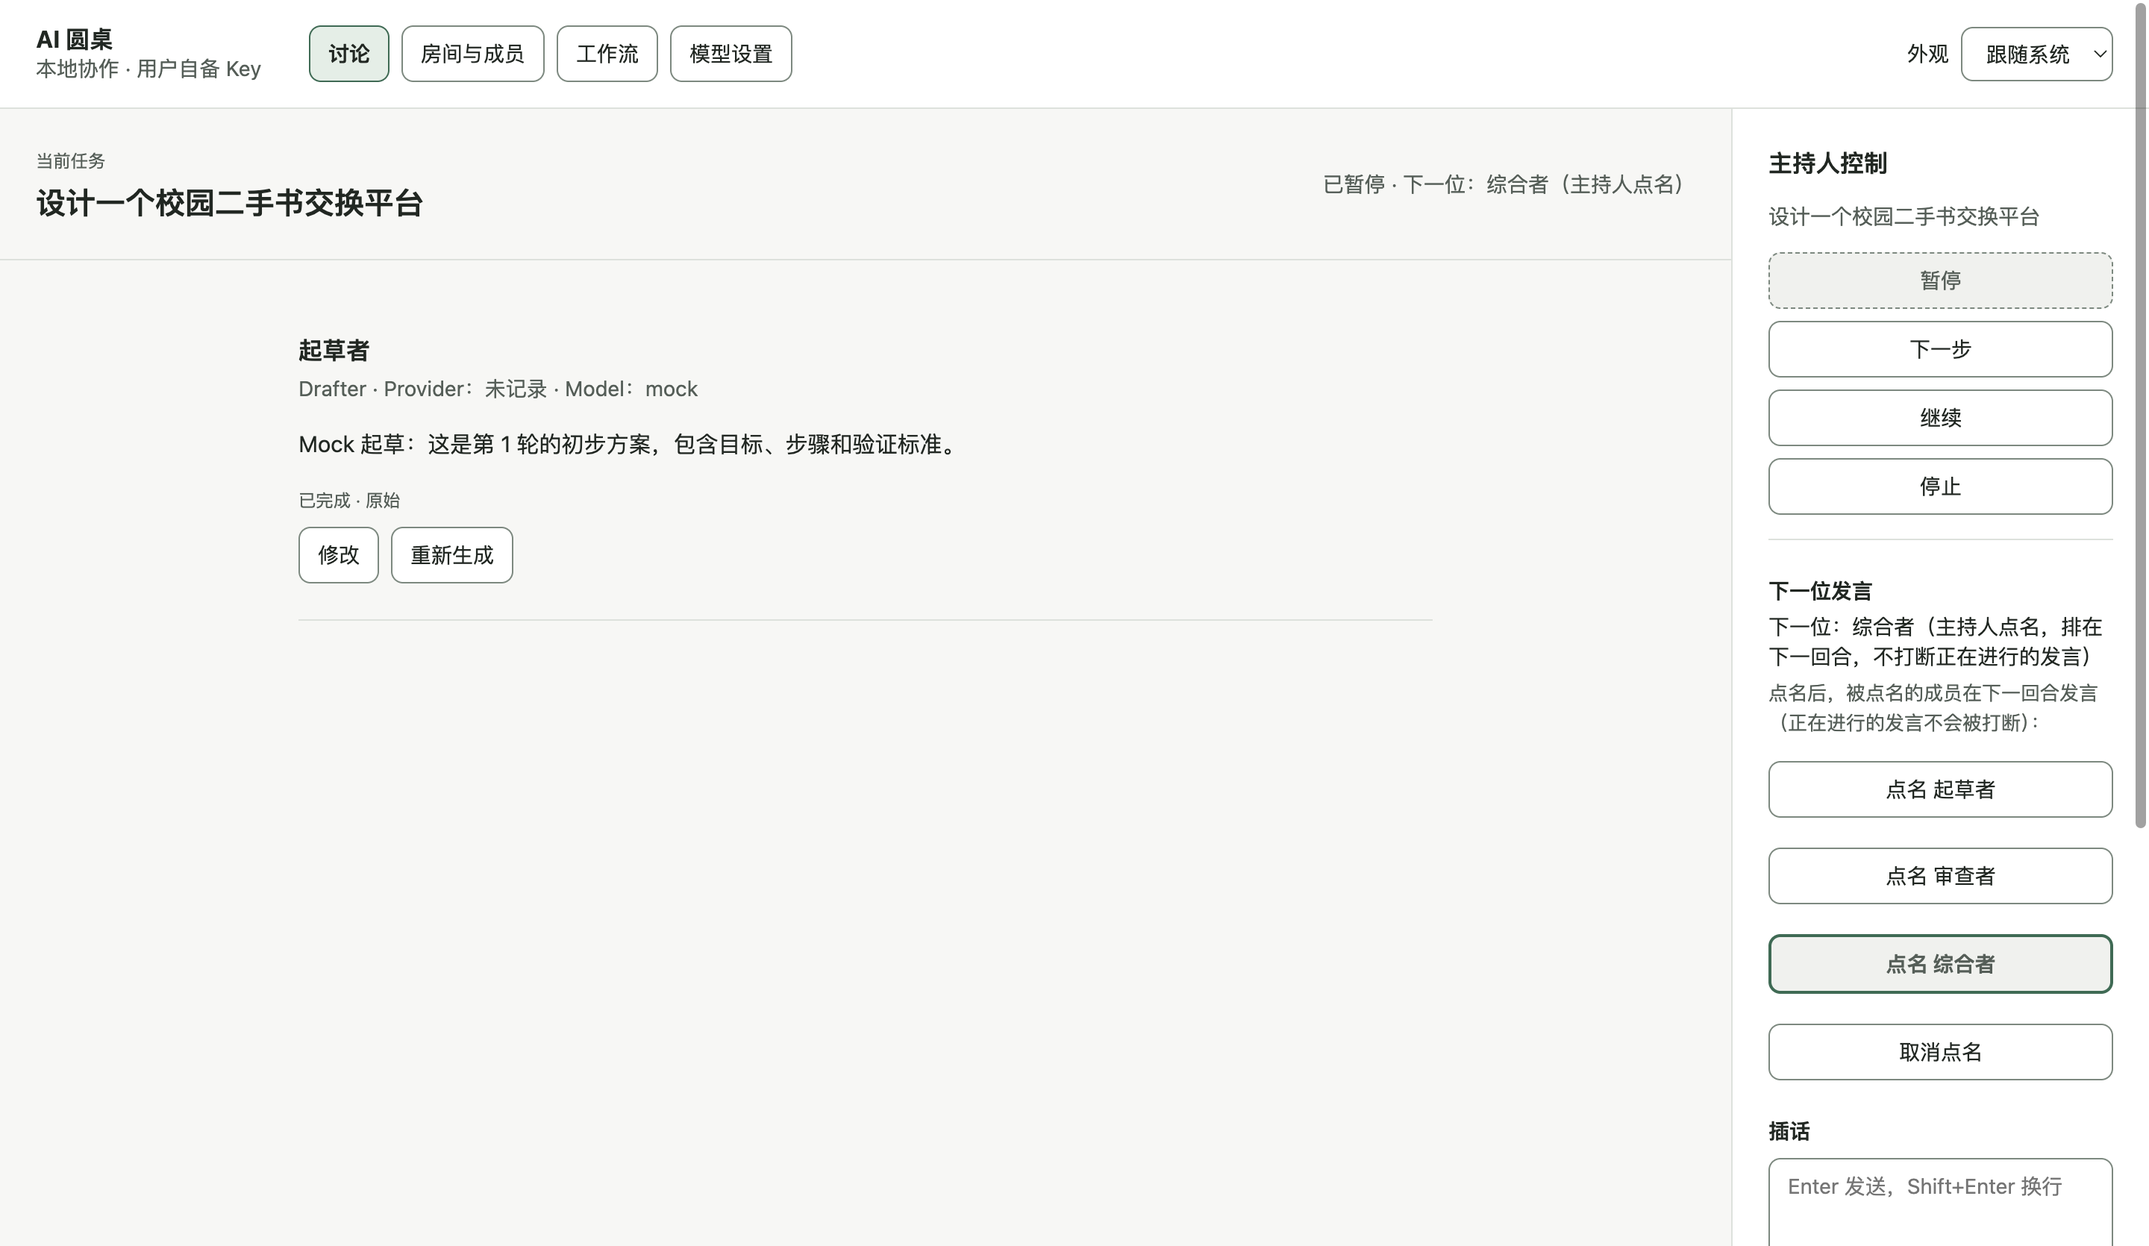
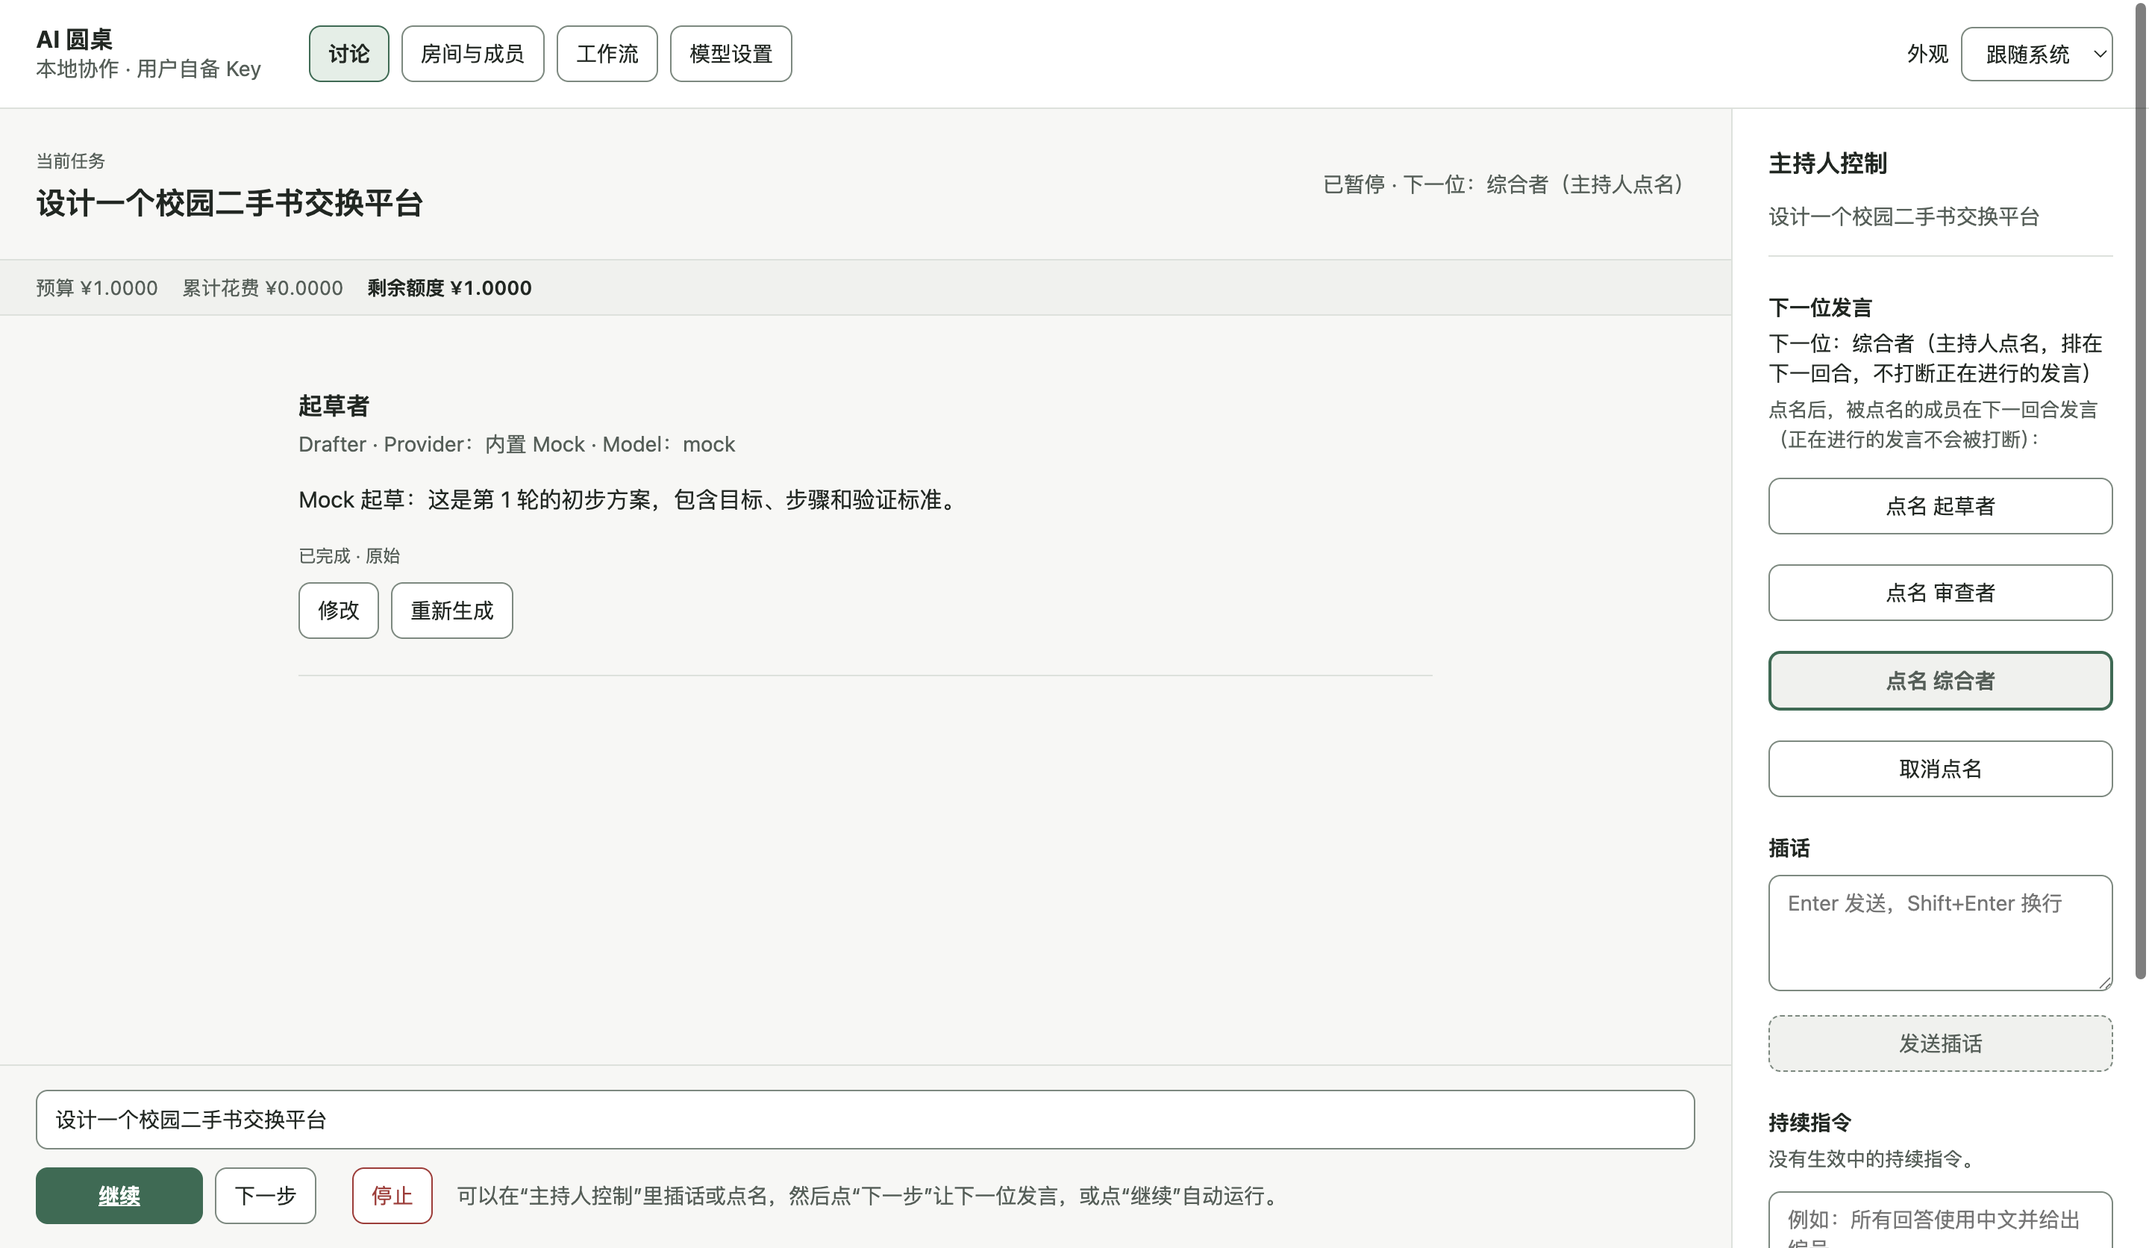
docs: record R12/R13A integration, real-model results and Claude-grade product standard
STATUS current state moves R12 and R13A (with the pre-merge quality fixes) to
merged/verified and corrects R10A/R10B/R11 rows to merged. The R12 acceptance
record and its screenshots are regenerated on the merge result: after D102 the
output-limit path shows truncation and continuation instead of failure.
CLAUDE.md gains the product standard the user set; the handoff notes the
current repository location.

diff --git a/docs/STATUS.md b/docs/STATUS.md
@@ -1,11 +1,13 @@
 # R00–R18 状态与授权看板
 
-## 当前状态（2026-10-21，Claude Code 接手后）
+## 当前状态（2026-10-23）
 
-- **R10A Anthropic / R10B Gemini / R11 声明式工作流：review，待用户批准合 main。** 分支 `codex/integrate-r10a-r10b-r11`，生产接线提交 `8a7f293`。验证：Electron ABI139 下 109 文件 / 1732 测试、typecheck、build、隔离生产探针（首次 53 断言 / 26 次 fixture 请求，重启 17 断言 / 0 请求，liveApi=false）。真实 Claude/Gemini API、价格策略、桌面 E2E 未验证。
-- **环境根治**（`bf3a6d9`）：测试在 Electron 自带 Node 中运行，better-sqlite3 只保留 Electron ABI；`ensure-native` 按需重建。已查明 Codex 时期 Team ID 报错的根因是 `/opt/homebrew/bin/node` 指向 ChatGPT.app 内置的带签名 Node，现已改为 Homebrew `node@24`，`pnpm run build` 无需任何绕法即可通过。
-- **缺陷修复**（`3378436`）：数据库父目录含符号链接时，迁移备份必定失败（Codex 时期靠改 TMPDIR 绕过），已修复并补回归测试。
-- 已知后续：开启回环代理时，原生 Claude/Gemini 会被拒绝（代理目标检查写死了 `/chat/completions`）；每次运行工作流后都需要重新预览和应用。
+- **R12 主持人与消息版本、R13A 真实模型（DeepSeek）与运行预算、合并前质量修复：merged / verified。** 集成分支 `codex/integrate-r12-r13a`（R12 `codex/r12-host-message-versions` → R13A `codex/r13a-real-model-enable` → 质量修复 `codex/r13a-premerge-quality`，再合入 main 上的文档提交），以 ff-only 方式合入 main。合并结果上总控复跑：typecheck、126 文件 / 1903 测试、build；隔离生产探针 R01（默认、`--joint-ui`、`--r03-recovery`）、R07/R08、R09、R12、R13A 的首次运行和 `--restart`（重启后 0 次请求）、R10/R11；实操探针 premerge（首次 56 项 + 重启 11 项）、R13A、R12（25 项，截图已按最终代码重新生成）。全部通过，liveApi=false。
+- **真实模型实测（用户本人的 DeepSeek Key，`deepseek-flash`，经本机代理）**：请求次数、token 与 DeepSeek 控制台逐项一致；花费按高峰价记账，空闲时段实际扣费约为显示值的一半（D090 的保守取向，按时段结算列入 R13B）。主持人点名、插话、持续指令、修改与重新生成、版本切换在真实模型上生效；修复上下文格式（D095）后，审查者给出带出处的具体意见、不再照抄，综合者能整合并做取舍，主持人修改后的条件会被采用；写到输出上限时保留并标注截断，运行继续（D102，默认上限 4096，D103）。
+- **数据库**：migration 6（主持人操作与消息版本）、7（运行预算与费用账本）、8（请求结束原因）。启动时清除误填进模型 ID 栏、看起来像 API Key 的值，不留明文（D096/D100）。
+- **R10A/R10B/R11**：2026-10-21 合入 main（`66017c0`）。原生 Claude/Gemini 仍没有获审的价格策略，真实生成会被拒绝；代理模式下的目标核对已按 Provider 类型修正（R13A）。
+- **环境**：测试在 Electron 自带的 Node 中运行；宿主 Node 为 Homebrew `node@24`。仓库位于 `~/Claude code/AI roundtable`（已移出 iCloud）。
+- **下一步路线**：R13B（运行中追加预算、核销未知费用、按时段结算价格、对话摘要、用量统计）→ R14 结构化产物（可以和 R13B 并行）→ R15 代码导出 / R16 按 Claude 风格重做界面（汇总已记录的体验问题：设置页文案过于技术化、工作流运行后要重新应用、右侧面板过长等）→ R17 E2E 与发布。产品标准：按 Claude 配套产品的标准与审美把关，验收分三层（自动化、真实界面实操、真实模型）。
 
 以下为 Codex 时期的历史记录，保留作证据。
 
@@ -60,12 +62,12 @@ main 本轮新跑 Electron86文件1292/1292、受影响12文件279/279、Node/El
 | R07 | 房间、成员、历史 | R04/R05/R06及SHARED-R07-R08-01已合main且verified | 原模块交付；总控联合接线 | verified | 最终合并及补充探针修复已授权；全部必要验收完成 | 已合main；集成及原分支/WT全部保留 | 原d991178；引入f718f829；接线64ac8ce5038813cc60374573dc8871da30d1eeb0 ；ff入站d3205b2c3fba2061437150e87a87508d44fbb660 | [主线及补充记录](verification/2026-10-17-r07-r08-main.md)：原846/292/111/393、strict/build及UI/重启/退出证据按同业务版本复用；本次18/18真桥断言、生产探针自然exit0及退出SQLite审计通过 |
 | R08 | Key 与 Provider 设置 | R04/R05/R06及SHARED-R07-R08-01已合main且verified | 原模块交付；总控联合接线 | verified | 最终合并及补充探针修复已授权；全部必要验收完成 | 已合main；集成及原分支/WT全部保留 | 原d2aed6c；引入5f01e978；接线64ac8ce5038813cc60374573dc8871da30d1eeb0 ；ff入站d3205b2c3fba2061437150e87a87508d44fbb660 | [主线及补充记录](verification/2026-10-17-r07-r08-main.md)：原846/292/111/393、strict/build及UI/重启/退出证据按同业务版本复用；本次18/18真桥断言、生产探针自然exit0及退出SQLite审计通过 |
 | R09 | OpenAI 与兼容端点 | R07/R08已合main verified；Mock联合验收 | 原模块交付；总控独占联合接线 | verified（fixture） | 用户批准最终合main及主线独立验收；真实付费测试未授权 | 已合main；codex/integrate-r09与原分支/WT保留 | 原2d97af571debf106aadad708a2c0418f299c6eef；唯一引入f5baaf07e1603a7c356fb0c9cedeb131977307ba；接线da512e7a64a6ec4a596b0f7fda820b3d62b04e42；ff入站f3a8fee38f5b7d75b5144c2997d72373fda6ddd6 | [本轮main报告](verification/2026-10-17-r09-main.md)/[台账](verification/2026-10-17-r09-main-commands.md)：Node/Electron各1073、R09专项227、strict/build、双ABI/SQLite、真实生产fixture12请求/重启HTTP0及退出审计；旧探针白名单一行修复，原失败保留 |
-| R10A | Anthropic | R09 fixture已合main verified | 总控（Claude Code） | review | 用户授权继续；合main待批准；真实调用未授权 | codex/r10a-anthropic-provider → codex/integrate-r10a-r10b-r11 | 原7d14b11；接线8a7f293 | 见顶部“当前状态”：1732测试、build、生产探针fixture通过 |
-| R10B | Gemini | R09 fixture已合main verified | 总控（Claude Code） | review | 用户授权继续；合main待批准；真实调用未授权 | codex/r10b-gemini-provider → codex/integrate-r10a-r10b-r11 | 原17b7b62；接线8a7f293 | 见顶部“当前状态”：1732测试、build、生产探针fixture通过 |
-| R11 | 声明式工作流 | R07/R04–R06 | 总控（Claude Code） | review | 用户授权继续；合main待批准；真实调用未授权 | codex/r11-declarative-workflows → codex/integrate-r10a-r10b-r11 | 原9341a33；接线8a7f293 | 四种模板经生产入口fixture完整运行与重启验证 |
-| R12 | 主持人与消息版本 | R11 | 未分派 | blocked | 未授权启动 | 未创建 | 无 | 未运行 |
-| R13 | 摘要、usage、费用预算 | R05/R09/R11 | 未分派 | blocked | 未授权启动 | 未创建 | 无 | 未运行 |
-| R14 | 结构化产物 | R11 | 未分派 | blocked | 未授权启动 | 未创建 | 无 | 未运行 |
+| R10A | Anthropic | R09 fixture已合main verified | 总控（Claude Code） | merged / verified（fixture） | 用户批准合main；真实调用需获审价格策略 | codex/integrate-r10a-r10b-r11 | 接线8a7f293；合main 66017c0 | 1732测试、build、生产探针fixture通过 |
+| R10B | Gemini | R09 fixture已合main verified | 总控（Claude Code） | merged / verified（fixture） | 用户批准合main；真实调用需获审价格策略 | codex/integrate-r10a-r10b-r11 | 接线8a7f293；合main 66017c0 | 1732测试、build、生产探针fixture通过 |
+| R11 | 声明式工作流 | R07/R04–R06 | 总控（Claude Code） | merged / verified（fixture） | 用户批准合main | codex/integrate-r10a-r10b-r11 | 接线8a7f293；合main 66017c0 | 四种模板经生产入口fixture完整运行与重启验证；真实模型工作流待测 |
+| R12 | 主持人与消息版本 | R11 | R12子会话；总控集成 | merged / verified | 用户批准合main | codex/r12-host-message-versions → codex/integrate-r12-r13a | 15e2e30；合并见顶部 | 自动化、实操、DeepSeek真实模型三层通过 |
+| R13 | 摘要、usage、费用预算 | R05/R09/R11 | R13A子会话；总控集成 | R13A merged / verified；R13B not_started | R13A获批；R13B待派发 | codex/r13a-real-model-enable、codex/r13a-premerge-quality → codex/integrate-r12-r13a | b3e3324、0ccb49c | DeepSeek预算与账本经真实账单核对；R13B见顶部路线 |
+| R14 | 结构化产物 | R11 | 未分派 | ready | 待派发 | 未创建 | 无 | 未运行 |
 | R15 | 安全代码导出 | R14 | 未分派 | blocked | 未授权启动 | 未创建 | 无 | 未运行 |
 | R16 | 聊天 UI 与可用性 | R06；主要交互稳定 | 未分派 | blocked | 未授权启动 | 未创建 | 无 | 未运行 |
 | R17 | Electron E2E 与发布 | 骨架 R02；最终 R07–R16，含 R10A/R10B | 未分派 | blocked | 未授权启动 | 未创建 | 无 | 未运行 |

diff --git a/docs/verification/2026-10-22-r12-acceptance.md b/docs/verification/2026-10-22-r12-acceptance.md
@@ -7,6 +7,8 @@
 复跑命令：`pnpm run build`，然后 `./node_modules/.bin/electron tests/probes/r12-acceptance.cjs`（截图会覆盖写入本目录的 `r12-screens/`）。
 本次结果：PASS，22 项检查，14 张截图；网络尝试 0 次，控制台错误 0 条。
 
+**2026-10-23 总控在合并结果（`codex/integrate-r12-r13a`）上复跑**：PASS，25 项检查，14 张截图，网络尝试 0 次、控制台错误 0 条。本目录截图已全部替换为这次复跑生成的版本。D102 之后，输出上限不再导致回合失败，所以截图 11、12 由原来的"失败 / 重试仍失败"改为"截断 / 续写"；检查项也相应更新。
+
 ## 截图
 
 | 截图 | 展示内容 |
@@ -21,8 +23,8 @@
 | [08-edited-affected.png](r12-screens/08-edited-affected.png) | 修改第一条已完成消息：显示新内容、"主持人修改 · 当前有效"和"版本 2/2"；后面两条 Agent 回复出现"受影响"说明（它们基于旧版本生成）。 |
 | [09-regenerated.png](r12-screens/09-regenerated.png) | 对"综合者"的回复点"重新生成"：生成新的版本 2/2（重新生成），依据修订后的开场；第一条修改后的版本仍保留"主持人修改"标记。 |
 | [10-old-version.png](r12-screens/10-old-version.png) | 点"‹"查看"综合者"的旧版本：标为"原始 · 未生效的历史版本"，原文完整保留，并提供"设为当前版本"。 |
-| [11-failed.png](r12-screens/11-failed.png) | 单次输出上限设为 3 后开始：首个回合因输出不完整失败，页头"运行失败"，消息标为"生成失败 · 原始"并保留已输出的部分文字，失败原因"模型未完整完成响应，部分输出已保留。"直接显示在该消息下方；右侧出现"重试当前回合""续写部分回复"。 |
-| [12-retry-failed-again.png](r12-screens/12-retry-failed-again.png) | 手动"重试当前回合"：生成第 2 个版本，标为"生成失败 · 重试 · 当前版本（未完成）"，仍因同一输出上限失败；"‹ 版本 2/2"可切换查看两次失败的部分输出，均未被覆盖。 |
+| [11-truncated.png](r12-screens/11-truncated.png) | 单次输出上限设为 3 后开始：每条回复写到上限都被保留，并标注"已达单次输出上限，内容可能不完整。"；运行没有失败，依次轮到下一位，直到页头显示"已完成"。每条下方提供"续写"。（D102） |
+| [12-continued.png](r12-screens/12-continued.png) | 运行结束后点第一条的"续写"：生成"续写 · 当前有效 · 版本 2/2"，从原来的文字接着写（这里仍受上限 3 限制，所以再次标注截断）；原版本保留为版本 1，后续发言被标为受影响。 |
 | [13-stopped-partial.png](r12-screens/13-stopped-partial.png) | 生成中点"停止"：状态"已停止"，已输出的部分文字保留并标为"已中止"。 |
 | [14-retry-succeeded.png](r12-screens/14-retry-succeeded.png) | "重试当前回合"后新请求成功并继续完成运行；第一条显示"重试 · 当前有效 · 版本 2/2"，被停止的部分输出作为版本 1 保留。 |
 
@@ -32,6 +34,7 @@
 - The streaming Turn finished normally; the named member has not started yet
 - The header status names the next speaker and that the host chose them
 - Enter during IME composition did not send the interjection
+- The composition is still open after the IME Enter
 - Shift+Enter kept a line break and the IME text intact: "请先评估成本风险\n再列出三个最关键的问题"
 - Clicking 修改 moves keyboard focus into the instruction editor
 - Saving an unchanged instruction is not offered
@@ -44,10 +47,12 @@
 - Clicking 修改 moves keyboard focus into the message editor
 - Regeneration added a version without changing the completed Run
 - Regeneration used the revised opening and the earlier interjection, but not the later 审查者 message
-- The first Turn failed (output limit reached)
-- No automatic retry happened after the failure
-- The failed message keeps its partial text and is labelled as failed
-- Retry used a new requestId
+- Every Turn completed and the Run went on to the next member
+- Each reply was kept as complete-but-truncated, none failed
+- The timeline marks truncation and never says the Run failed
+- The continuation is the new effective version; the original stays as version 1
+- The continuation starts from the kept text; the Run status is unchanged
+- Stop landed in the first turn within three Runs
 - The stopped attempt stays as version 1; the retry is the effective version 2
 - Partial text of the stopped attempt kept as aborted
 
@@ -64,5 +69,5 @@
 
 ## 未覆盖
 
-- 真实模型实测：未验证（按总控安排，合并前由总控和用户一起完成）。
+- 真实模型实测：2026-10-22/23 由总控和用户用 DeepSeek（`deepseek-flash`）完成，覆盖点名、插话、持续指令、修改与重新生成；记录见 STATUS 顶部"当前状态"。
 - 只在 macOS arm64、1440×900 窗口验证；窄窗口布局属于 R16。

diff --git a/CLAUDE.md b/CLAUDE.md
@@ -9,6 +9,16 @@
 ## Claude Code 补充
 
 - 回答、报告和交付说明使用简体中文，保留 Electron、SQLite、Mock Provider、IPC 等英文术语。
+## 产品标准（用户 2026-10-22 指定）
+
+把 AI 圆桌当作 Claude（Anthropic）将来会推出的配套产品来做，按 Claude 自己做产品的标准和审美把关，用户不会逐条指点：
+- 核心体验优先：多 Agent 讨论的质量（不照抄、角色分明、采用主持人的修改）比功能数量重要；输出质量问题按阻塞级缺陷处理。
+- 默认就好用：合理的默认值和内置指引，用户不用猜哪栏填什么、按钮为什么不可用。
+- 控件跟着注意力走：下一步要用的控件放在原地或手边（例如开始按钮原地变成暂停）；判断误操作先看布局和动线，再考虑加确认。
+- 中文文案诚实、克制、直白；花费、风险和不确定的地方都说清楚。
+- 安全可信：Key、费用、数据隔离让用户放心；危险操作要确认，并在视觉上和普通操作区分开。
+- 视觉：克制、留白、层级清楚，浅色和深色主题都要好看（R16 全面落实）。
+
 ## 会话分工（用户 2026-10-21 指定）
 
 - **总控**：用户指定的一个主对话（2026-10-21 从 Codex 迁移过来的那个会话），在主仓库 main 上工作。它独占这些工作：派发 R 任务、审查子会话交付、处理共享契约/Schema/migration/IPC/Preload/App 接线、集成、合并 main（用户批准后 `--ff-only`）、更新 STATUS 和交接文档。

diff --git a/docs/CODEX_HANDOFF.md b/docs/CODEX_HANDOFF.md
@@ -52,6 +52,8 @@
 
 ### 仓库位置（2026-10-21 迁移）
 
+- **2026-10-22 起的当前位置：`~/Claude code/AI roundtable`**（先改名为 `AI roundtable`，再整体移出 iCloud 同步的"文稿"文件夹）；手动 Worktree 在同级 `~/Claude code/AI交互-worktrees/`。下面几条是当时的迁移记录。
+
 - 主仓库从 `~/Documents/ChatGPT/AI交互` 整体移到 **`~/Documents/Claude/AI交互`**；Worktree 目录移到 **`~/Documents/Claude/AI交互-worktrees/`**（当前只有 `integrate-r10a-r10b-r11`），已执行 `git worktree repair`，两处 `tsc --noEmit` exit 0、`node_modules` 无断链。
 - 新的 Worktree 统一放在 `~/Documents/Claude/AI交互-worktrees/`，不再依赖 `~/.codex`。
 - `docs/verification/` 历史记录中的 `Documents/ChatGPT/AI交互` 是当时证据，保持原样不改。
